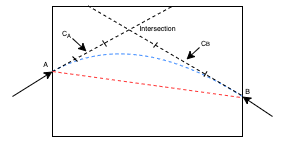
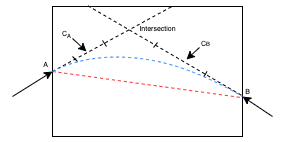
Tweaks

Changed region(s): [[0.1678, 0.3662, 0.8392, 0.6761]]

diff --git a/README.md b/README.md
@@ -33,12 +33,12 @@ Yellow pixels denote the identified outline of the shape after simplification.
 
 ## Tail Tangent Approximation
 
-The first step in the pipeline is to extract the two curves from the two endpoints; smoothing is performed to better approximate the tangents near the endpoints (*tails* of the whole curve). After this step, we will obtain two tangents (2-D direction vectors), one at each tail. We will call these tangents *tail tangents*.
+The next step is to (divide, if needed, and) extract the two curves from the two endpoints; smoothing is performed to better approximate the tangents near the endpoints (*tails* of the whole curve). After this step, we will obtain two tangents (2-D direction vectors), one at each tail. We will call these tangents *tail tangents*.
 
 ![Tail tangent approximation](images/simple/tail_tangent_approx.png)
-After discrete rasterization, even a theoretically smooth curve will contain sharp corners. The naive approach is to simply take A as the tail tangent, but better (more practical/useful) approximations may be obtained by taking more subsequent segments into account (e.g. B,C,D).
+The naive approach is to simply take A as the tail tangent, but better (more practical/useful) approximations may be obtained by taking more subsequent segments into account (e.g. B, C, D).
 
-A number of factors determine the accuracy and robustness of tail tangent approximation. Our implementation takes into account how many points to consider from the tails, how long should the segments being considered accumulate to, and how the weights for each segment should differ towards the tails.
+A number of factors determine the accuracy and robustness of tail tangent approximation. Our implementation supports configurations like how many points to consider from the tails, how long should the segments being considered accumulate to, and how the weights for each segment should change towards the tails.
 
 <hr>
 
@@ -47,37 +47,38 @@ A number of factors determine the accuracy and robustness of tail tangent approx
 <details>
     <summary>Why "<i>Intra</i>polation"?</summary>
     <p>
-        If we considered the existing outline of the shape as separate curves at each endpoint, we would be doing *<b>inter</b>polation* **between** curves. However, in this project, we are focusing on curves that form an outline of a shape, so we argue that we are doing *<b>intra</b>polation* **within** curves.
+        If we considered the existing outline of the shape as separate curves at each endpoint, we would be doing <i><b>inter</b>polation</i> <b>between</b> curves. However, in this project, we are focusing on curves (existing + missing) that form an outline of a single shape, so we argue that we are doing <i><b>intra</b>polation</i> <b>within</b> a curve.
     </p>
     <hr>
 </details>
 
-With the two endpoints and their corresponding tail tangents, we can calculate the missing part in different scenarios. The type of curves used in this project is cubic [Bézier curves](https://en.wikipedia.org/wiki/B%C3%A9zier_curve). To specify such a curve, four points are required.
+With the two endpoints and their corresponding tail tangents, we can calculate for the missing part in different scenarios. The type of curves used in this project is cubic [Bézier curves](https://en.wikipedia.org/wiki/B%C3%A9zier_curve). To specify such a curve, four points are required. An important property to note about this type of curves is that *the curve constructed is always fully contained in the quadrilateral defined by the four points*.
 
-The first scenario is when the two tail tangents point to the same side with respect to the line connecting the two endpoints (we denote this line as the *base*).
+The first scenario is when the two tail tangents point to the same side with respect to the line connecting the two endpoints (we call this line the *base*).
 
 ![Intrapolation when both tail tangents point to the same side](images/simple/intrapolate_same_side.png)
-Both tail tangents at A and B point to the same side of the red line (the base).
+Both tail tangents at A and B point to the same side of the red, dashed line (the base).
 
-To construct the curve between A and B, we need to identify two *control points* (C<sub>A</sub> and C<sub>B</sub>) between them. In our approach, we started with what we think is intuitive and made tweaks to resolve practical issues; this is what we end up with:
+To construct the curve between A and B, we need to identify two *control points* (C<sub>A</sub> and C<sub>B</sub>) between them. In our approach, we started with what we think is intuitive and made tweaks to resolve some issues in practice; this is what we end up with:
 
-First, find the intersection of the two lines starting at A and B along the corresponding tail tangent. C<sub>A</sub> and C<sub>B</sub> are then set to be the mid-point between A/B and the intersection. If the intersection is too far away (i.e. the two lines are close to parallel), we simply use a point on each of the lines as the control points (e.g. translate A/B along tail tangent by a factor of base length). Either way, if either C<sub>A</sub> or C<sub>B</sub> end up lying outside the hole region, we *retract* it by pushing it towards the endpoint, until it reaches the hole region.
+First, find the intersection of the two lines starting at A and B along the corresponding tail tangent. The mid-points between A/B and the intersection are then set to be C<sub>A</sub> and C<sub>B</sub>. If the intersection is too far away (i.e. the two lines are close to, if not exactly, parallel), we simply use a point on each line as the control points (e.g. translate A/B along their tail tangent by a factor of base length). Either way, if either C<sub>A</sub> or C<sub>B</sub> end up lying outside the hole region, we *retract* it by pushing it towards the endpoint, until it reaches the hole region.
 
 <details>
-    <summary>What if the intersection is in the other direction?</summary>
+    <summary>What if the intersection was in the other direction?</summary>
     <img src="./images/simple/intrapolation_bent_outwards.png" alt="Tail tangents bent outwards; pulled back to be perpendicular to the base." />
     <p>
-        If the line originating at A and B intersect in the negative direction (as shown above), we simply *correct* them by bending them inwards to be perpendicular with the base.
+        If the line originating from A and B intersect in the negative direction (as shown above), we simply <i>correct</i> them by bending them inwards to be perpendicular with the base.
     </p>
+    <hr>
 </details>
 
-The other scenario is when the two tail tangents point to different sides of the base, as below.
+Another scenario is when the two tail tangents point to different sides of the base, as below.
 
 ![Intrapolation with tail tangents pointing to different sides of the base](images/simple/intrapolate_diff_sides.png) A simple dot product operation can be used to detect such a scenario.
 
-In this case, any intersections detected are meaningless. Instead, we divide the curve into two and intrapolate two subcurves from each endpoint to the mid-point of the base as shown above.
+In this case, any intersections detected are meaningless because they must lie outside the hole region. Instead, we divide the curve into two halves and intrapolate two subcurves from each endpoint to the mid-point of the base as shown above.
 
-The final scenario is trivial to handle: when the lines are coincident, simply connect the endpoints.
+The last possible scenario is trivial to handle: when the lines are coincident, simply connect the endpoints with a straight line.
 
 ![Intrapolation becomes connecting endpoints with a straight line in coincidence](images/simple/intrapolate_coincidence.png)
 
@@ -87,17 +88,19 @@ The case of our simple ellipse falls into the first scenario. The intrapolated o
 
 ![Ellipse after intrapolation](images/simple/ellipse_intrapolated.png)
 
+<hr>
+
 ## Color filling
 
-To fill the hole with appropriate colors, we define three element types: *Blank*, *Structure*, and *Texture*.
+To fill the hole with appropriate colors, we define three element types: *Blank*, *Structure*, and *Texture*. Note that in this project, it is restricted that only one shape is processed at once, and actual texture recovery is not performed - we're only interested in knowing which parts of the hole are Blank, Structure, or Texture.
 
 Element     |Description
 :-----------|:----------
-Blank       |Background pixels; Default elements in the hole.
-Structure   |Outline of the shape; The intrapolated curve(s) obtained above is rasterized and drawn onto the hole.
-Texture     |Solid part of the shape; To be filled in this section.
+Blank       |Background pixels. (Black in our demo)
+Structure   |Outline of the shape; The intrapolated curve(s) obtained above is rasterized and drawn onto the hole. (Blue in our demo)
+Texture     |Solid part of the shape; To be filled in this section. (Red in our demo)
 
-The Structure elements divide the hole into several subregions. Each of these subregions is either Blank or Texture elements.
+The Structure elements divide the hole into several subregions. Each of these subregions contains wholly either Blank or Texture elements.
 
 ![Hole of ellipse divided into two subregions](images/simple/filling_subregions.png)
 
@@ -105,7 +108,7 @@ In our example, the hole is divided by the intrapolated curve into two subregion
 
 For the bottom subregion, the pixels right outside the bottom boundary are mostly red (Texture), therefore this subregion is classified as Texture and filled with Texture elements.
 
-For the top subregion, the pixels outside the left, top, and right sides of the boundary are considered. Most of those pixels are background (Blank), so this subregion is classified as Blank.
+For the top subregion, the pixels outside the left, top, and right sides of the boundary are considered. All of those pixels are background (Blank), so this subregion is classified as Blank.
 
 After filling, the shape of the ellipse is completed, as follows:
 
@@ -122,20 +125,22 @@ If we move the hole around, shape completion yields the following results:
 The process of shape completion shown above has been rather straightforward because there is a strong assumption - the hole cuts the shape at exactly 2 endpoints only. Consider the following case:
 
 ![Ellipse with a long hole cutting its boundary at 4 endpoints](images/complex/ellipse_hole_across.png)
-At a glance, we can tell how should the endpoints be grouped - top-left with bottom-left, top-right with bottom-right, but how can we model the problem to match the endpoints such that the result of color filling always makes sense?
+At a glance, we can tell how the endpoints should be grouped - A with B, and C with D, but how can we model the problem to match the endpoints such that the result of color filling always makes sense?
+
+<hr>
 
 ## Endpoint Matching
 
 ### Failed attempt: Local Proximity
 
-An intuitive approach to perform matching may be by endpoint proximity in a greedy manner. If we simply connect each endpoint to its nearest neighbor, the correct matching is found for the above case. However, this approach ceases to work for the following case:
+An intuitive approach might be by endpoint proximity in a greedy manner. If we simply connect each endpoint to its nearest neighbor, the correct matching is found for the above case. However, this approach ceases to work for the following case:
 
 ![Tall hole over ellipse.](images/complex/ellipse_local_proximity_counterexample.png)
-The correct matching seems to be (top-left with bottom-left, top-right with bottom-right), but the top two endpoints are the closest.
+The correct matching seems to be A with B and C with D, but the top two endpoints are the closest.
 
 ### Avoiding Intersections
 
-Problematic matchings are the ones that lead to intersecting curves. If intersection occurs, the resulting shape deforms and there may be subregions that are surrounded by others, leading to challenges in color filling. Therefore, the key of endpoint matching lies in **avoiding intersections**.
+Problematic matchings are the ones that lead to intersecting curves. If intersection occurs, the resulting shape deforms and there may be subregions that are surrounded by others, leading to problems in color filling. Therefore, the key of endpoint matching lies in **avoiding intersections**.
 
 Before intrapolation, some intersecting curves can already be identified by looking at endpoint connections that intersect.
 
@@ -143,8 +148,8 @@ Imagine we have 4 endpoints A, B, C, and D. If the line segment AB intersects wi
 
 ![Line intersection among endpoints implies intersection of intrapolated curves](images/complex/line_intersect_implies_curve_intersect.png)
 
-Therefore, the first step to avoid intersecting curves is to filter out matchings that contain intersecting lines.
+Therefore, the first step to avoiding intersecting curves is to filter out matchings that contain intersecting lines.
 
 This [webpage](https://prase.cz/kalva/putnam/psoln/psol794.html) shows that minimizing the total length of endpoint connections is equivalent to finding a matching with no intersecting connections. Hence the problem is reduced to a [Euclidean Bipartite Matching Problem](https://core.ac.uk/download/pdf/82212931.pdf), i.e. optimizing the global weights over matchings. The [Hungarian algorithm](https://en.wikipedia.org/wiki/Hungarian_algorithm) is used to solve such a problem.
 
-The rest of the intersecting curves have to be caught and filtered out after intrapolation. Bézier curve intersection can be detected by a recursive method called [De Casteljau's (Bézier Clipping) algorithm](https://en.wikipedia.org/wiki/De_Casteljau%27s_algorithm), which is implemented in [flo_curves](https://crates.io/crates/flo_curves), the Bézier curve library we use.
+The rest of the intersecting curves have to be caught and filtered out after intrapolation has taken place. Bézier curve intersection can be detected by a recursive method called [De Casteljau's (Bézier Clipping) algorithm](https://en.wikipedia.org/wiki/De_Casteljau%27s_algorithm), which is implemented in [flo_curves](https://crates.io/crates/flo_curves), the Bézier curve library we use.
